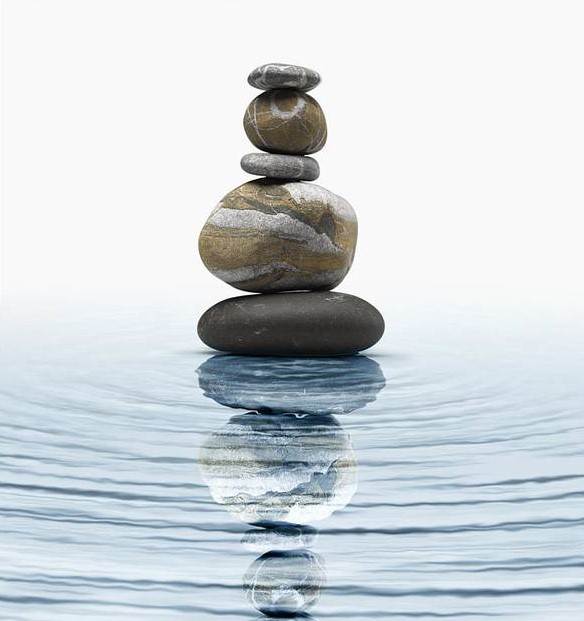
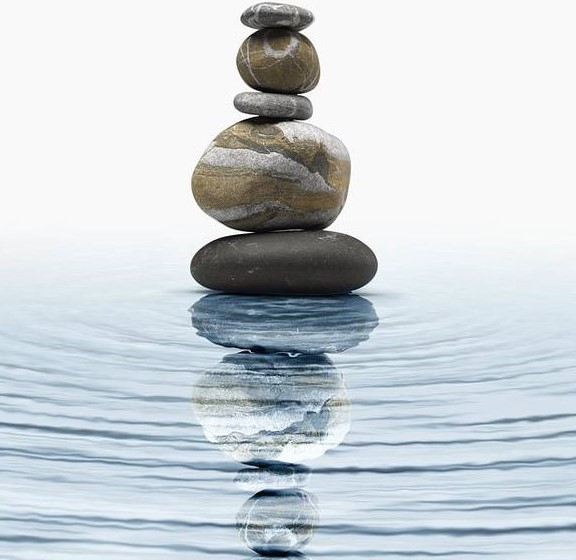
Change background colour on content text and crop image

Changed region(s): [[0.0, 0.0, 1.0, 1.0], [0.2188, 0.5768, 0.25, 0.6071]]

diff --git a/index.html b/index.html
@@ -60,7 +60,7 @@
                     <h3>Simply being aware of what is happening right now without wishing it were different. Enjoy the pleasant without holding on when it changes. Being with the unpleaseant and knowing it won't always be this way</h3>
                 </div>
 
-                <img src="assets/images/zen-stones.jpg" alt="Zen Stones" width="380px" height="420px">
+                <img src="assets/images/zen-stones.jpg" alt="Zen Stones" width="380px" height="380px">
                 
                 <div class="benefits">
                     <h2>The Benefits of Mindfulness</h2>

diff --git a/assets/css/style.css b/assets/css/style.css
@@ -143,11 +143,10 @@ body {
   }
 
   .about {
-    background-color: green; 
-    padding-top: 30px;
+    background-color: rgba(49, 122, 156, 0.2);
     width: 33%;
+    height: 380px;
     display: inline-block;
-    margin-top: 10px;
    }
 
    img {
@@ -156,11 +155,12 @@ body {
    }
 
    .benefits {
-    background-color: red;
-    padding-top: 30px;
+    background-color: #add8e6;
     width: 33%;
     display: inline-block;
+    height: 380px;
   }
+  
 
   .instructions {
     background-color: #fff;
